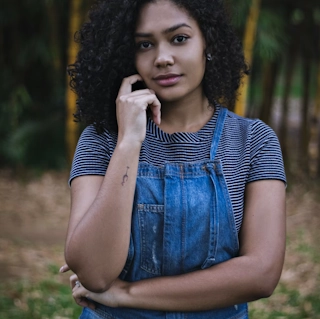
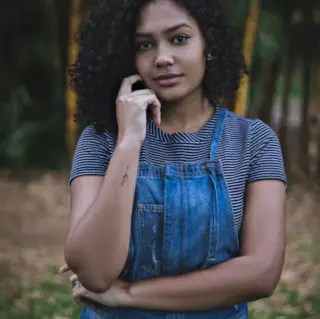
Redim images webp

Changed region(s): [[0.4375, 0.3668, 0.875, 0.7053], [0.2188, 0.4232, 0.3438, 0.5643]]

diff --git a/index.html b/index.html
@@ -34,11 +34,23 @@
       name="description"
       content="Nina Carducci, photographe pro. Explorez son portfolio, découvrez ses services et contactez-la pour un devis."
     />
-    <link rel="stylesheet" href="./assets/bootstrap/bootstrap.min.css" media="print" id="asyncCSS" onload="this.media='all'"/>
-    <link rel="stylesheet" href="./assets/style.min.css" media="print" id="asyncCSS" onload="this.media='all'"/>
+    <link
+      rel="stylesheet"
+      href="./assets/bootstrap/bootstrap.min.css"
+      media="print"
+      id="asyncCSS"
+      onload="this.media='all'"
+    />
+    <link
+      rel="stylesheet"
+      href="./assets/style.min.css"
+      media="print"
+      id="asyncCSS"
+      onload="this.media='all'"
+    />
     <link rel="preconnect" href="https://fonts.googleapis.com" />
     <link rel="preconnect" href="https://fonts.gstatic.com" crossorigin />
-    <link rel="preload" fetchpriority="low" as="image" href="./assets/images/slider/ryoji-iwata-man-crossing-street-tablet.webp" type="image/webp">
+    <!-- <link rel="preload" fetchpriority="low" as="image" href="./assets/images/slider/ryoji-iwata-man-crossing-street-tablet.webp" type="image/webp"> -->
     <script
       defer
       src="https://code.jquery.com/jquery-3.4.1.min.js"
@@ -113,7 +125,7 @@
               class="adaptive-picture"
               data-srcset="./assets/images/slider/ryoji-iwata-man-crossing-street-{device}.webp"
               data-sizes="1920,500,325"
-              data-img="d-block w-100,./assets/images/slider/ryoji-iwata.jpg,Man crossing the street from Ryoji Iwata,1920,888,auto"
+              data-img="d-block w-100,./assets/images/slider/ryoji-iwata-man-crossing-street-mobile.webp,Man crossing the street from Ryoji Iwata,325,150,auto"
             >
             </picture>
           </div>
@@ -122,7 +134,7 @@
               class="adaptive-picture"
               data-srcset="./assets/images/slider/nicholas-green-jubilant-fans-{device}.webp"
               data-sizes="1920,500,325"
-              data-img="d-block w-100,./assets/images/slider/nicholas-green.jpg,Jubilant fans from Nicholas Green,1920,888,lazy"
+              data-img="d-block w-100,./assets/images/slider/nicholas-green-jubilant-fans-mobile.webp,Jubilant fans from Nicholas Green,325,150,lazy"
             >
             </picture>
           </div>
@@ -131,7 +143,7 @@
               class="adaptive-picture"
               data-srcset="./assets/images/slider/edward-cisneros-wedding-dance-{device}.webp"
               data-sizes="1920,500,325"
-              data-img="d-block w-100,./assets/images/slider/edward-cisneros.jpg,Wedding dance from Edward Cisneros,1920,887,lazy"
+              data-img="d-block w-100,./assets/images/slider/edward-cisneros-wedding-dance-mobile.webp,Wedding dance from Edward Cisneros,325,150,lazy"
             >
             </picture>
           </div>
@@ -162,9 +174,9 @@
           class="adaptive-picture"
           data-srcset="./assets/images/nina-{device}.webp"
           data-sizes="560,480,320"
-          data-img=",.assets/images/nina.webp,Nina Carducci,560,558,lazy"
+          data-img=",.assets/images/nina-mobile.webp,Nina Carducci,320,319,lazy"
         >
-        </picture> 
+        </picture>
       </div>
       <div id="about-me">
         <h2 class="about-me__title">A propos de moi</h2>
@@ -353,7 +365,7 @@
             class="adaptive-picture"
             data-srcset="./assets/images/camera-{device}.webp"
             data-sizes="418,320,200"
-            data-img=",.assets/images/camera.webp,camera,418,417,lazy"
+            data-img=",.assets/images/camera-mobile.webp,camera,200,200,lazy"
           >
           </picture>
         </div>
@@ -389,7 +401,7 @@
         <span itemprop="priceRange">Tarifs : de 50€ à 400€</span>
         <img
           class="footer-logo"
-          src="./assets/images/nina.webp"
+          src="./assets/images/nina-mobile.webp"
           alt="Nina Carducci"
           itemprop="image"
           loading="lazy"
